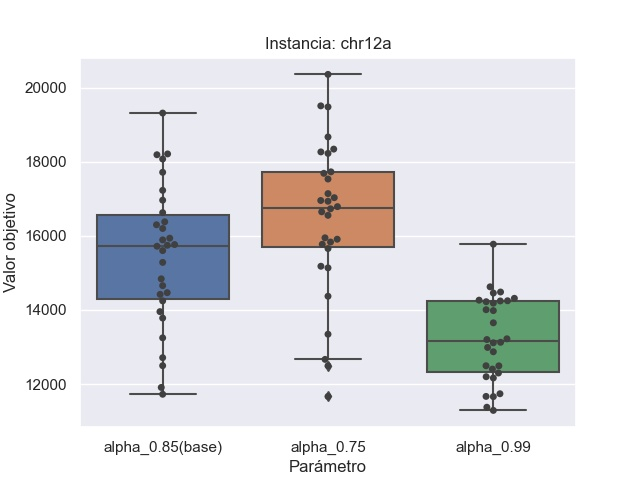
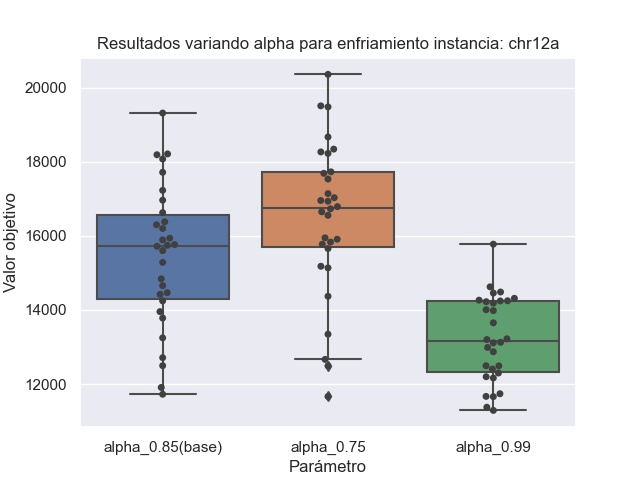
ADD: All plots for ga algorithm

Changed region(s): [[0.1562, 0.0625, 0.875, 0.125]]

diff --git a/graph.py b/graph.py
@@ -98,10 +98,10 @@ temperature_times, temperature_bests = unify_data(temperature, temperature_filen
 df = temperature_times.groupby('Parámetro').describe()
 #####      PLOT TIME      #######
 
-graph_scatterplot(temperature_times, "plots_sa/chr12a_temperature_time_boxplot.jpg", "Instancia: chr12a", 'Tiempo')
+graph_scatterplot(temperature_times, "plots_sa/chr12a_temperature_time_boxplot.jpg", "Resultados variando temperatura inicial instancia: chr12a", 'Tiempo')
 
 ##### PLOT OBJECTIVE VALUE ######
-graph_boxplot(temperature_bests, "plots_sa/chr12a_temperature_obj_value_boxplot.jpg", "Instancia: chr12a", 'Valor objetivo')
+graph_boxplot(temperature_bests, "plots_sa/chr12a_temperature_obj_value_boxplot.jpg", "Resultados variando temperatura inicial instancia: chr12a", 'Valor objetivo')
 
 
 ######################## INSTANCIA 2 ############################
@@ -112,10 +112,10 @@ temperature_times, temperature_bests = unify_data(temperature, temperature_filen
 
 #####      PLOT TIME      #######
 
-graph_scatterplot(temperature_times, "plots_sa/esc64a_temperature_time_boxplot.jpg", "Instancia: esc64a", 'Tiempo')
+graph_scatterplot(temperature_times, "plots_sa/esc64a_temperature_time_boxplot.jpg", "Resultados variando temperatura inicial instancia: esc64a", 'Tiempo')
 
 ##### PLOT OBJECTIVE VALUE ######
-graph_boxplot(temperature_bests, "plots_sa/esc64a_temperature_obj_value_boxplot.jpg", "Instancia: esc64a", 'Valor objetivo')
+graph_boxplot(temperature_bests, "plots_sa/esc64a_temperature_obj_value_boxplot.jpg", "Resultados variando temperatura inicial instancia: esc64a", 'Valor objetivo')
 
 
 ######################## INSTANCIA 3 ############################
@@ -126,10 +126,10 @@ temperature_times, temperature_bests = unify_data(temperature, temperature_filen
 
 ##### PLOT TIME #######
 
-graph_scatterplot(temperature_times, "plots_sa/kra32_temperature_time_boxplot.jpg", "Instancia: kra32", 'Tiempo')
+graph_scatterplot(temperature_times, "plots_sa/kra32_temperature_time_boxplot.jpg", "Resultados variando temperatura inicial instancia: kra32", 'Tiempo')
 
 ##### PLOT OBJECTIVE VALUE ######
-graph_boxplot(temperature_bests, "plots_sa/kra32_temperature_obj_value_boxplot.jpg", "Instancia: kra32", 'Valor objetivo')
+graph_boxplot(temperature_bests, "plots_sa/kra32_temperature_obj_value_boxplot.jpg", "Resultados variando temperatura inicial instancia: kra32", 'Valor objetivo')
 
 ######################################## ALPHA #######################################
 
@@ -142,11 +142,11 @@ geometric_times, geometric_bests = unify_data(geometric, geometric_filename_chr1
 
 ##### PLOT TIME #######
 
-graph_scatterplot(geometric_times, "plots_sa/chr12a_geometric_time_boxplot.jpg", "Instancia: chr12a", 'Tiempo')
+graph_scatterplot(geometric_times, "plots_sa/chr12a_geometric_time_boxplot.jpg", "Resultados variando alpha para enfriamiento instancia: chr12a", 'Tiempo')
 
 ##### PLOT OBJECTIVE VALUE #####
 
-graph_boxplot(geometric_bests, "plots_sa/chr12a_geometric_obj_value_boxplot.jpg", "Instancia: chr12a", 'Valor objetivo')
+graph_boxplot(geometric_bests, "plots_sa/chr12a_geometric_obj_value_boxplot.jpg", "Resultados variando alpha para enfriamiento instancia: chr12a", 'Valor objetivo')
 
 
 #### INSTANCIA 2 #######
@@ -158,11 +158,11 @@ geometric_times, geometric_bests = unify_data(geometric, geometric_filename_esc6
 
 ##### PLOT TIME #######
 
-graph_scatterplot(geometric_times, "plots_sa/esc64a_geometric_time_boxplot.jpg", "Instancia: esc64a", 'Tiempo')
+graph_scatterplot(geometric_times, "plots_sa/esc64a_geometric_time_boxplot.jpg", "Resultados variando alpha para enfriamiento instancia: esc64a", 'Tiempo')
 
 ##### PLOT OBJECTIVE VALUE #####
 
-graph_boxplot(geometric_bests, "plots_sa/esc64a_geometric_obj_value_boxplot.jpg", "Instancia: esc64a", 'Valor objetivo')
+graph_boxplot(geometric_bests, "plots_sa/esc64a_geometric_obj_value_boxplot.jpg", "Resultados variando alpha para enfriamiento instancia: esc64a", 'Valor objetivo')
 
 #### INSTANCIA 3 #######
 geometric_filename_kra32 = ["result_sa/kra32_base_SA", "result_sa/kra32_geometric_75_SA", "result_sa/kra32_geometric_99_SA"]
@@ -172,11 +172,11 @@ geometric_times, geometric_bests = unify_data(geometric, geometric_filename_kra3
 
 ##### PLOT TIME #######
 
-graph_scatterplot(geometric_times, "plots_sa/kra32_geometric_time_boxplot.jpg", "Instancia: kra32", 'Tiempo')
+graph_scatterplot(geometric_times, "plots_sa/kra32_geometric_time_boxplot.jpg", "Resultados variando alpha para enfriamiento instancia: kra32", 'Tiempo')
 
 ##### PLOT OBJECTIVE VALUE #####
 
-graph_boxplot(geometric_bests, "plots_sa/kra32_geometric_obj_value_boxplot.jpg", "Instancia: kra32", 'Valor objetivo')
+graph_boxplot(geometric_bests, "plots_sa/kra32_geometric_obj_value_boxplot.jpg", "Resultados variando alpha para enfriamiento instancia: kra32", 'Valor objetivo')
 
 #################### ITERATION #########################
 
@@ -189,11 +189,11 @@ iteration_times, iteration_bests = unify_data(iteration, iteration_filename_chr1
 
 ##### PLOT TIME #######
 
-graph_scatterplot(iteration_times, "plots_sa/chr12a_iteration_time_boxplot.jpg", "Instancia: chr12a", 'Tiempo')
+graph_scatterplot(iteration_times, "plots_sa/chr12a_iteration_time_boxplot.jpg", "Resultados variando cant. de iteraciones instancia: chr12a", 'Tiempo')
 
 ##### PLOT OBJECTIVE VALUE #####
 
-graph_boxplot(iteration_bests, "plots_sa/chr12a_iteration_obj_value_boxplot.jpg", "Instancia: chr12a", 'Valor objetivo')
+graph_boxplot(iteration_bests, "plots_sa/chr12a_iteration_obj_value_boxplot.jpg", "Resultados variando cant. de iteraciones instancia: chr12a", 'Valor objetivo')
 
 ############ INSTANCIA 2 ##################
 iteration = ["25 iter.(base)", "50 iter.", "10 iter."]
@@ -204,11 +204,11 @@ iteration_times, iteration_bests = unify_data(iteration, iteration_filename_esc6
 
 ##### PLOT TIME #######
 
-graph_scatterplot(iteration_times, "plots_sa/esc64a_iteration_time_boxplot.jpg", "Instancia: esc64a", 'Tiempo')
+graph_scatterplot(iteration_times, "plots_sa/esc64a_iteration_time_boxplot.jpg", "Resultados variando cant. de iteraciones instancia: esc64a", 'Tiempo')
 
 ##### PLOT OBJECTIVE VALUE #####
 
-graph_boxplot(iteration_bests, "plots_sa/esc64a_iteration_obj_value_boxplot.jpg", "Instancia: esc64a", 'Valor objetivo')
+graph_boxplot(iteration_bests, "plots_sa/esc64a_iteration_obj_value_boxplot.jpg", "Resultados variando cant. de iteraciones instancia: esc64a", 'Valor objetivo')
 
 ############ INSTANCIA 3 ##################
 iteration = ["25 iter.(base)", "50 iter.", "10 iter."]
@@ -219,19 +219,77 @@ iteration_times, iteration_bests = unify_data(iteration, iteration_filename_kra3
 
 ##### PLOT TIME #######
 
-graph_scatterplot(iteration_times, "plots_sa/kra32_iteration_time_boxplot.jpg", "Instancia: kra32", 'Tiempo')
+graph_scatterplot(iteration_times, "plots_sa/kra32_iteration_time_boxplot.jpg", "Resultados variando cant. de iteraciones instancia: kra32", 'Tiempo')
 
 ##### PLOT OBJECTIVE VALUE #####
 
-graph_boxplot(iteration_bests, "plots_sa/kra32_iteration_obj_value_boxplot.jpg", "Instancia: kra32", 'Valor objetivo')
+graph_boxplot(iteration_bests, "plots_sa/kra32_iteration_obj_value_boxplot.jpg", "Resultados variando cant. de iteraciones instancia: kra32", 'Valor objetivo')
 
 
 
 """"""""""""""""""""" BESTS COMPARATIONS """""""""""""""""""""
 
 ###### INSTANCIA 1 #######
-algorithm = ["SA", "GA"]
-filename_bests_chr12a = ["result_best/chr12a_best_sa","result_best/chr12a_best_ga"]
-times, bests = unify_data(algorithm, filename_bests_chr12a, 30, 1)
-graph_scatterplot(times, "plots_best/chr12a_best_time_boxplot.jpg", "Instancia: chr12a", 'Tiempo')
-graph_boxplot(bests, "plots_best/chr12a_best_obj_value_boxplot.jpg", "Instancia: chr12a", 'Valor objetivo')
+#algorithm = ["SA", "GA"]
+#filename_bests_chr12a = ["result_best/chr12a_best_sa","result_best/chr12a_best_ga"]
+#times, bests = unify_data(algorithm, filename_bests_chr12a, 30, 1)
+#graph_scatterplot(times, "plots_best/chr12a_best_time_boxplot.jpg", "Instancia: chr12a", 'Tiempo')
+#graph_boxplot(bests, "plots_best/chr12a_best_obj_value_boxplot.jpg", "Instancia: chr12a", 'Valor objetivo')
+
+""""""""""""""""""""""" GA RESULTS """""""""""""""""""""""""""
+
+""""""""""""""""""" GENERATIONS """""""""""""""""""
+
+generation = ["20 gen.(base)", "10 gen.", "40 gen."]
+###### INSTANCIA 1 #######
+filename_generation_chr12a = ["result_ga/chr12a_base_ga", "result_ga/chr12a_generations_10_ga", "result_ga/chr12a_generations_40_ga"]
+generation_times, generation_bests = unify_data(generation, filename_generation_chr12a, 30, 1)
+graph_scatterplot(generation_times, "plots_ga/chr12a_generation_time_boxplot.jpg", "Resultados variando cant. de generaciones instancia: chr12a", 'Tiempo')
+graph_boxplot(generation_bests, "plots_ga/chr12a_generation_obj_value_boxplot.jpg", "Resultados variando cant. de generaciones instancia: chr12a", 'Valor objetivo')
+###### INSTANCIA 2 #######
+filename_generation_esc64 = ["result_ga/esc64_base_ga", "result_ga/esc64_generations_10_ga", "result_ga/esc64_generations_40_ga"]
+generation_times, generation_bests = unify_data(generation, filename_generation_esc64, 30, 1)
+graph_scatterplot(generation_times, "plots_ga/esc64_generation_time_boxplot.jpg", "Resultados variando cant. de generaciones instancia: esc64", 'Tiempo')
+graph_boxplot(generation_bests, "plots_ga/esc64_generation_obj_value_boxplot.jpg", "Resultados variando cant. de generaciones instancia: esc64", 'Valor objetivo')
+###### INSTANCIA 3 #######
+filename_generation_kra32 = ["result_ga/kra32_base_ga", "result_ga/kra32_generations_10_ga", "result_ga/kra32_generations_40_ga"]
+generation_times, generation_bests = unify_data(generation, filename_generation_kra32, 30, 1)
+graph_scatterplot(generation_times, "plots_ga/kra32_generation_time_boxplot.jpg", "Resultados variando cant. de generaciones instancia: kra32", 'Tiempo')
+graph_boxplot(generation_bests, "plots_ga/kra32_generation_obj_value_boxplot.jpg", "Resultados variando cant. de generaciones instancia: kra32", 'Valor objetivo')
+
+""""""""""""""""""" POPULATION """""""""""""""""""""
+
+population = ["50 (base)", "30", "100"]
+########## INSTANCIA 1 ###########
+filename_population_chr12a = ["result_ga/chr12a_base_ga", "result_ga/chr12a_population_30_ga", "result_ga/chr12a_population_100_ga"]
+population_times, population_bests = unify_data(population, filename_population_chr12a, 30, 1)
+graph_scatterplot(population_times, "plots_ga/chr12a_population_time_boxplot.jpg", "Resultados variando tamaño de población instancia: chr12a", 'Tiempo')
+graph_boxplot(population_bests, "plots_ga/chr12a_population_obj_value_boxplot.jpg", "Resultados variando tamaño de población instancia: chr12a", 'Valor objetivo')
+###### INSTANCIA 2 #######
+filename_population_esc64 = ["result_ga/esc64_base_ga", "result_ga/esc64_population_30_ga", "result_ga/esc64_population_100_ga"]
+population_times, population_bests = unify_data(population, filename_population_esc64, 30, 1)
+graph_scatterplot(population_times, "plots_ga/esc64_population_time_boxplot.jpg", "Resultados variando tamaño de población instancia: esc64", 'Tiempo')
+graph_boxplot(population_bests, "plots_ga/esc64_population_obj_value_boxplot.jpg", "Resultados variando tamaño de población instancia: esc64", 'Valor objetivo')
+###### INSTANCIA 3 #######
+filename_population_kra32 = ["result_ga/kra32_base_ga", "result_ga/kra32_population_30_ga", "result_ga/kra32_population_100_ga"]
+population_times, population_bests = unify_data(population, filename_population_kra32, 30, 1)
+graph_scatterplot(population_times, "plots_ga/kra32_population_time_boxplot.jpg", "Resultados variando tamaño de población instancia: kra32", 'Tiempo')
+graph_boxplot(population_bests, "plots_ga/kra32_population_obj_value_boxplot.jpg", "Resultados variando tamaño de población instancia: kra32", 'Valor objetivo')
+
+""""""""""""""""""" MUTATION """""""""""""""""""""""""
+########## INSTANCIA 1 ###########
+mutation = ["20% (base)", "10%", "50%"]
+filename_mutation_chr12a = ["result_ga/chr12a_base_ga", "result_ga/chr12a_mutation_01_ga", "result_ga/chr12a_mutation_05_ga"]
+mutation_times, mutation_bests = unify_data(mutation, filename_mutation_chr12a, 30, 1)
+graph_boxplot(mutation_times, "plots_ga/chr12a_mutation_time_boxplot.jpg", "Resultados variando probabilidad de mutación instancia: chr12a", 'Tiempo')
+graph_boxplot(mutation_bests, "plots_ga/chr12a_mutation_obj_value_boxplot.jpg", "Resultados variando probabilidad de mutación instancia: chr12a", 'Valor objetivo')
+###### INSTANCIA 2 #######
+filename_mutation_esc64 = ["result_ga/esc64_base_ga", "result_ga/esc64_mutation_01_ga", "result_ga/esc64_mutation_05_ga"]
+mutation_times, mutation_bests = unify_data(mutation, filename_mutation_esc64, 30, 1)
+graph_boxplot(mutation_times, "plots_ga/esc64_mutation_time_boxplot.jpg", "Resultados variando probabilidad de mutación instancia: esc64", 'Tiempo')
+graph_boxplot(mutation_bests, "plots_ga/esc64_mutation_obj_value_boxplot.jpg", "Resultados variando probabilidad de mutación instancia: esc64", 'Valor objetivo')
+###### INSTANCIA 3 #######
+filename_mutation_kra32 = ["result_ga/kra32_base_ga", "result_ga/kra32_mutation_01_ga", "result_ga/kra32_mutation_05_ga"]
+mutation_times, mutation_bests = unify_data(mutation, filename_mutation_kra32, 30, 1)
+graph_boxplot(mutation_times, "plots_ga/kra32_mutation_time_boxplot.jpg", "Resultados variando probabilidad de mutación instancia: kra32", 'Tiempo')
+graph_boxplot(mutation_bests, "plots_ga/kra32_mutation_obj_value_boxplot.jpg", "Resultados variando probabilidad de mutación instancia: kra32", 'Valor objetivo')
